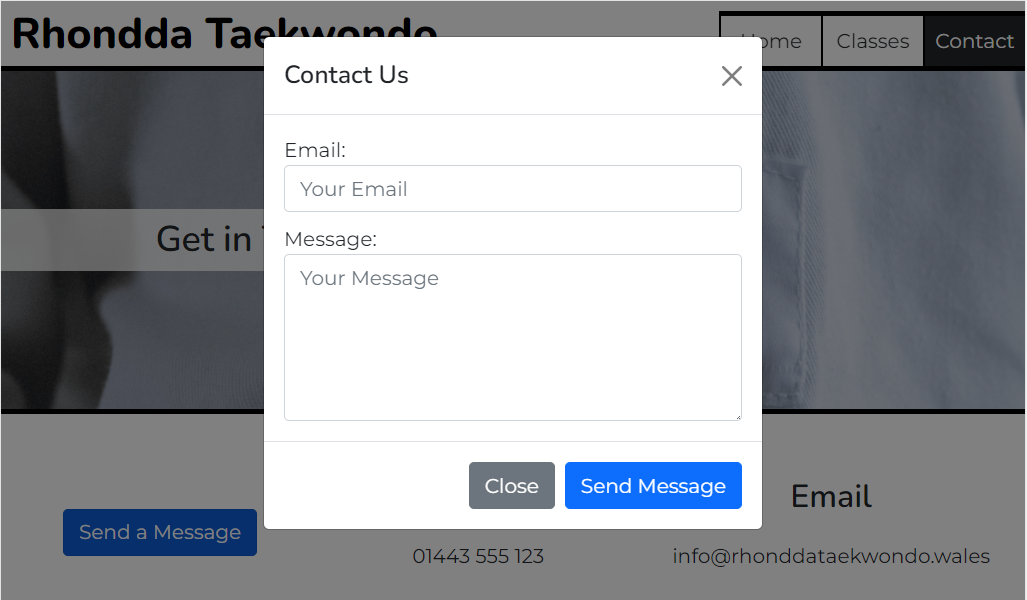
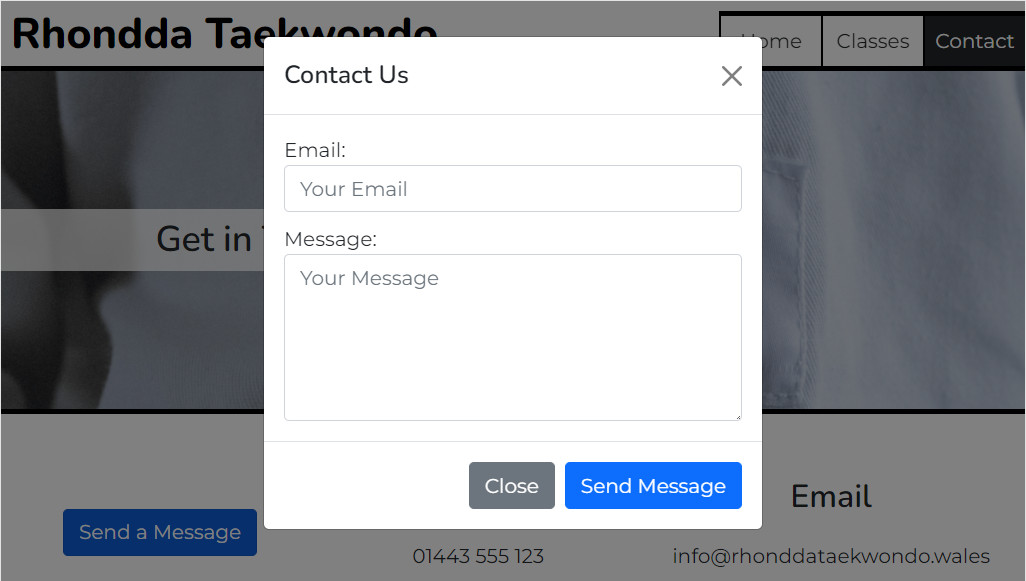
docs: Crop feature screenshots for README
Also, add in possible future features in README.

diff --git a/README.md b/README.md
@@ -74,13 +74,13 @@ These features have been implemented in the project.
 
 ### Future Features
 Possible features to be considered for future releases.
-- Feature One
-	 * Detail of the feature
-	 * Detail of the feature
+- Blog / News
+	 * A way for updates about events to be featured on the page, showcasing what the club is involved with.
+	 * A place where ideas can be shared about Taekwondo practice at the club.
 
-- Feature Two
-	 * Detail of the feature
-	 * Detail of the feature
+- Tutorials / Guides
+	 * More detailed information about the club including the grading system, code of conduct etc.
+	 * Video guides showing the poomsae (patterns/forms) of Taekwondo that need to be learnt for gradings.
 
 
 ## User Experience Design
